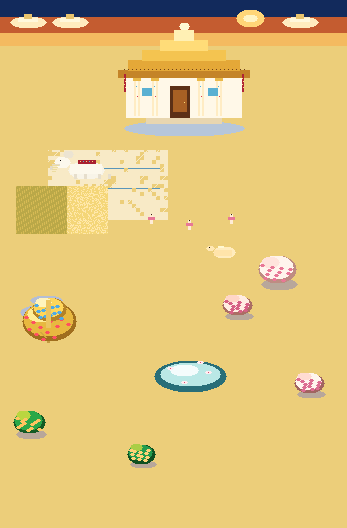
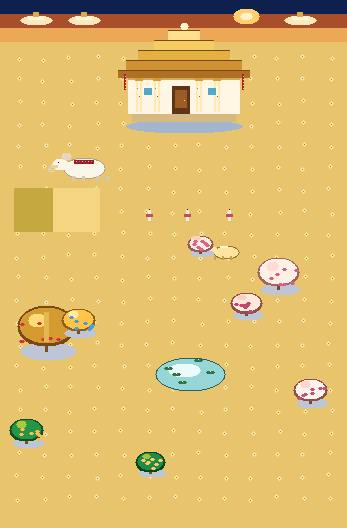
Fill Svarga and Naraka with ornament instead of empty fields.

diff --git a/src/game/draw.ts b/src/game/draw.ts
@@ -680,10 +680,19 @@ function drawRealmGate(ctx: CanvasRenderingContext2D, s: GameState): void {
     ctx.fillRect(cx - 14, cy - 8, 4, 24);
     ctx.fillRect(cx + 11, cy - 8, 4, 24);
     ctx.fillRect(cx - 16, cy + 18, 33, 4);
-    ctx.fillStyle = gold ? "#fff6c8" : "#8a7048";
+    ctx.fillStyle = gold ? "#fff6c8" : "#5a4630";
     ctx.fillRect(cx - 12, cy - 20, 25, 3);
-    ctx.fillStyle = gold ? "#fffaf0" : "#c46a3a";
-    ctx.fillRect(cx - 1, cy - 22, 3, 2);
+    ctx.fillStyle = gold ? "#fffaf0" : "#8a6840";
+    ctx.fillRect(cx - 1, cy - 24, 3, 4);
+    if (gold) {
+      ctx.fillStyle = "#e87898";
+      ctx.fillRect(cx - 15, cy - 6, 1, 10);
+      ctx.fillRect(cx + 15, cy - 4, 1, 10);
+    } else {
+      ctx.fillStyle = "#2a140c";
+      ctx.fillRect(cx - 18, cy - 22, 8, 3);
+      ctx.fillRect(cx + 11, cy - 22, 8, 3);
+    }
   }
 }
 

diff --git a/src/game/assets.ts b/src/game/assets.ts
@@ -1,5 +1,5 @@
 /** Bump this when the pictures change so phones and computers drop the old files. */
-export const ART = "20260929d";
+export const ART = "20260929e";
 
 function art(path: string): string {
   return `${path}?v=${ART}`;
